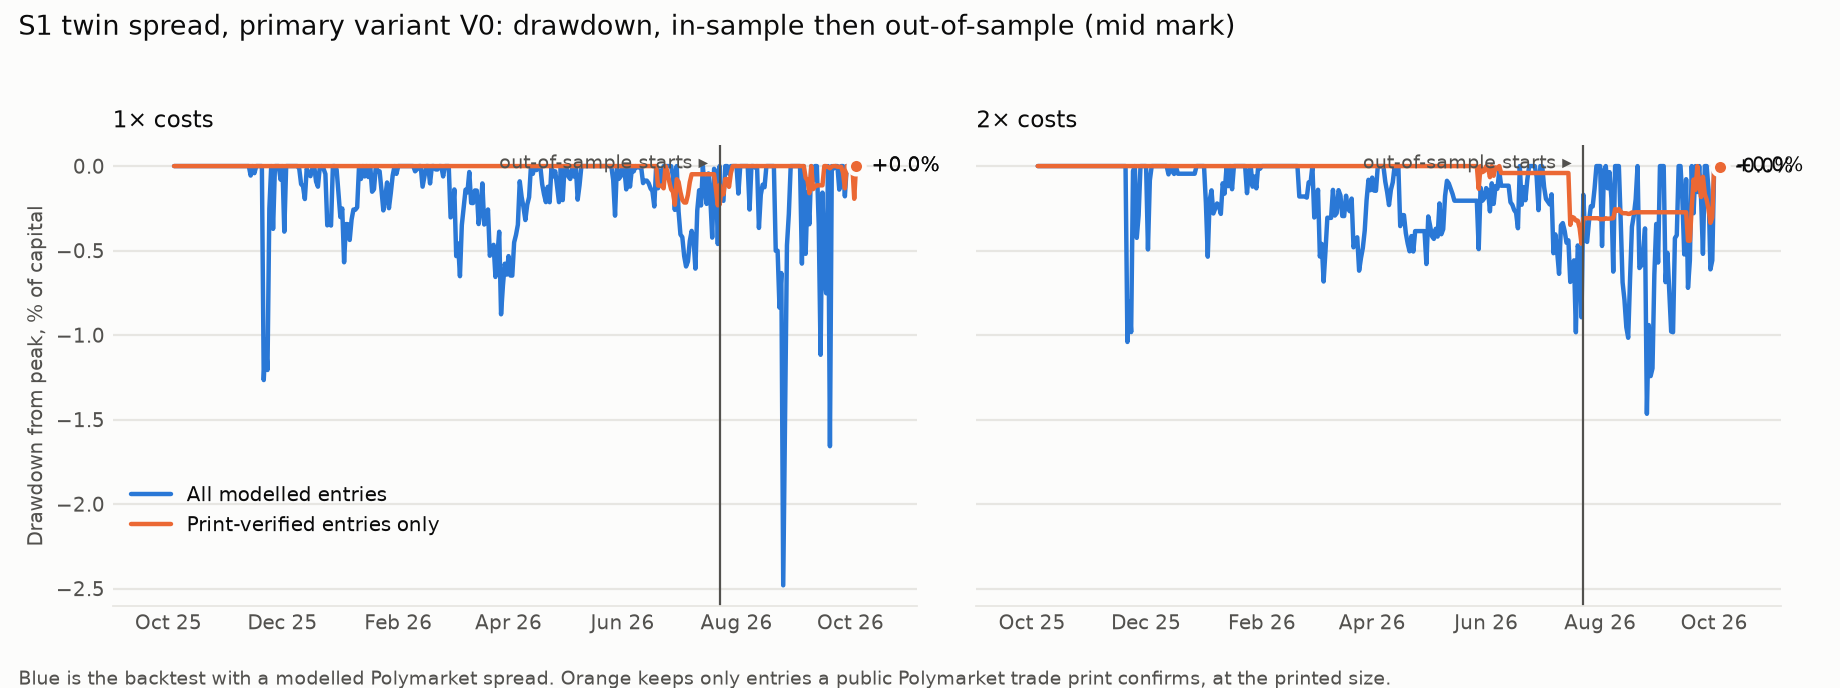
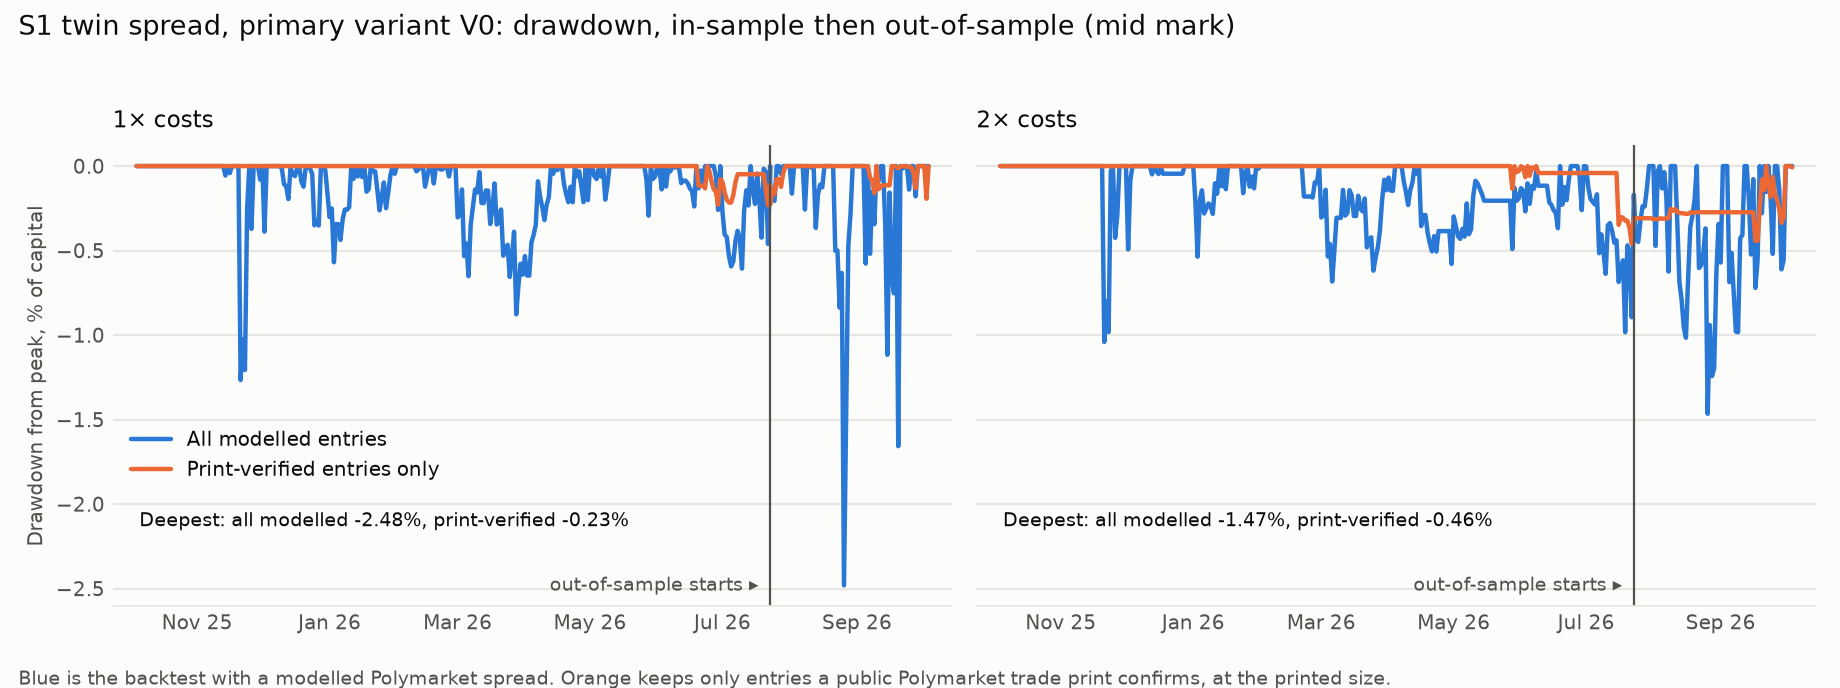
S1 drawdown chart: label the deepest drawdown, clear the label collisions

diff --git a/research/s1_twin_spread/report.py b/research/s1_twin_spread/report.py
@@ -73,6 +73,7 @@ def charts(eq: pd.DataFrame, split: pd.Timestamp) -> None:
         fig, axes = plt.subplots(1, 2, figsize=(11.5, 4.3), sharey=True, facecolor=SURFACE)
         for ax, cost in zip(axes, cfg.COST_MULTIPLIERS):
             style(ax, f"{cost:.0f}× costs")
+            deepest: list[str] = []
             for mark, label, color in series:
                 c = curve(eq, cost, mark)
                 y = c.y.values
@@ -80,15 +81,23 @@ def charts(eq: pd.DataFrame, split: pd.Timestamp) -> None:
                     full = np.concatenate([[0.0], y])
                     y = (full - np.maximum.accumulate(full))[1:]
                 ax.plot(c.t, y, color=color, linewidth=2, solid_capstyle="round", solid_joinstyle="round", label=label)
-                ax.plot([c.t.iloc[-1]], [y[-1]], "o", color=color, markersize=7, markeredgecolor=SURFACE, markeredgewidth=2)
-                ax.annotate(f"{y[-1]:+.1f}%", (c.t.iloc[-1], y[-1]), xytext=(7, 0), textcoords="offset points",
-                            va="center", fontsize=9, color=INK)
+                if transform is None:       # the end value is the story of the equity curve; the trough is the drawdown's
+                    ax.plot([c.t.iloc[-1]], [y[-1]], "o", color=color, markersize=7, markeredgecolor=SURFACE, markeredgewidth=2)
+                    ax.annotate(f"{y[-1]:+.1f}%", (c.t.iloc[-1], y[-1]), xytext=(7, 0), textcoords="offset points",
+                                va="center", fontsize=9, color=INK)
+                else:
+                    deepest.append(f"{label.split(' entries')[0].lower()} {y.min():.2f}%")
             ax.axvline(split, color=INK2, linewidth=1)
-            ax.annotate("out-of-sample starts ▸", (split, 1.0), xycoords=("data", "axes fraction"), xytext=(-5, -4),
-                        textcoords="offset points", va="top", ha="right", fontsize=8.5, color=INK2)
-            ax.margins(x=0.09)
+            top = transform is None
+            ax.annotate("out-of-sample starts ▸", (split, 1.0 if top else 0.0), xycoords=("data", "axes fraction"),
+                        xytext=(-5, -4 if top else 5), textcoords="offset points", va="top" if top else "bottom", ha="right",
+                        fontsize=8.5, color=INK2)
+            if deepest:
+                ax.annotate("Deepest: " + ", ".join(deepest), (0.0, 0.0), xycoords="axes fraction", xytext=(12, 34),
+                            textcoords="offset points", ha="left", va="bottom", fontsize=8.5, color=INK)
+            ax.margins(x=0.09 if top else 0.03)
         axes[0].set_ylabel(ylabel, fontsize=9, color=INK2)
-        axes[0].legend(loc="upper left", bbox_to_anchor=(0.0, 0.86) if transform is None else (0.0, 0.3), frameon=False,
+        axes[0].legend(loc="upper left", bbox_to_anchor=(0.0, 0.86) if transform is None else (0.0, 0.42), frameon=False,
                        fontsize=9, labelcolor=INK)
         what = "equity curve" if transform is None else "drawdown"
         fig.suptitle(f"S1 twin spread, primary variant V0: {what}, in-sample then out-of-sample (mid mark)",
